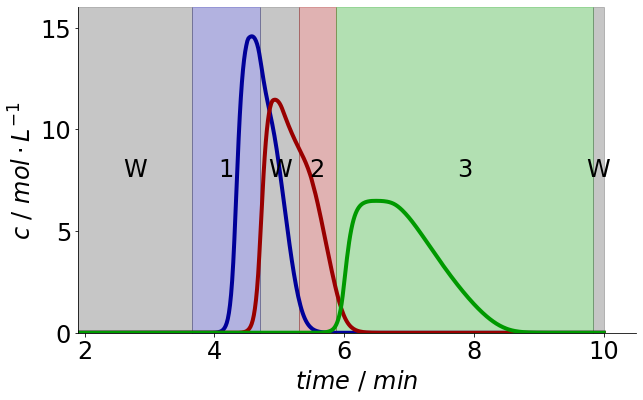
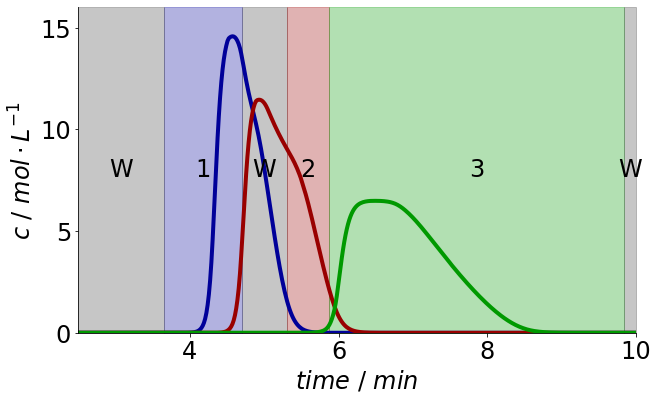
changed component index

diff --git a/fractionation_demo/fractionation_demo.py b/fractionation_demo/fractionation_demo.py
@@ -75,4 +75,4 @@ if __name__ == '__main__':
             batch_ternary_sim_results.chromatograms,
             batch_ternary.process_meta,
             purity_required=0.95)
-    batch_ternary_frac.save(case_dir, start=1.9)
+    batch_ternary_frac.save(case_dir, start=2.5)
